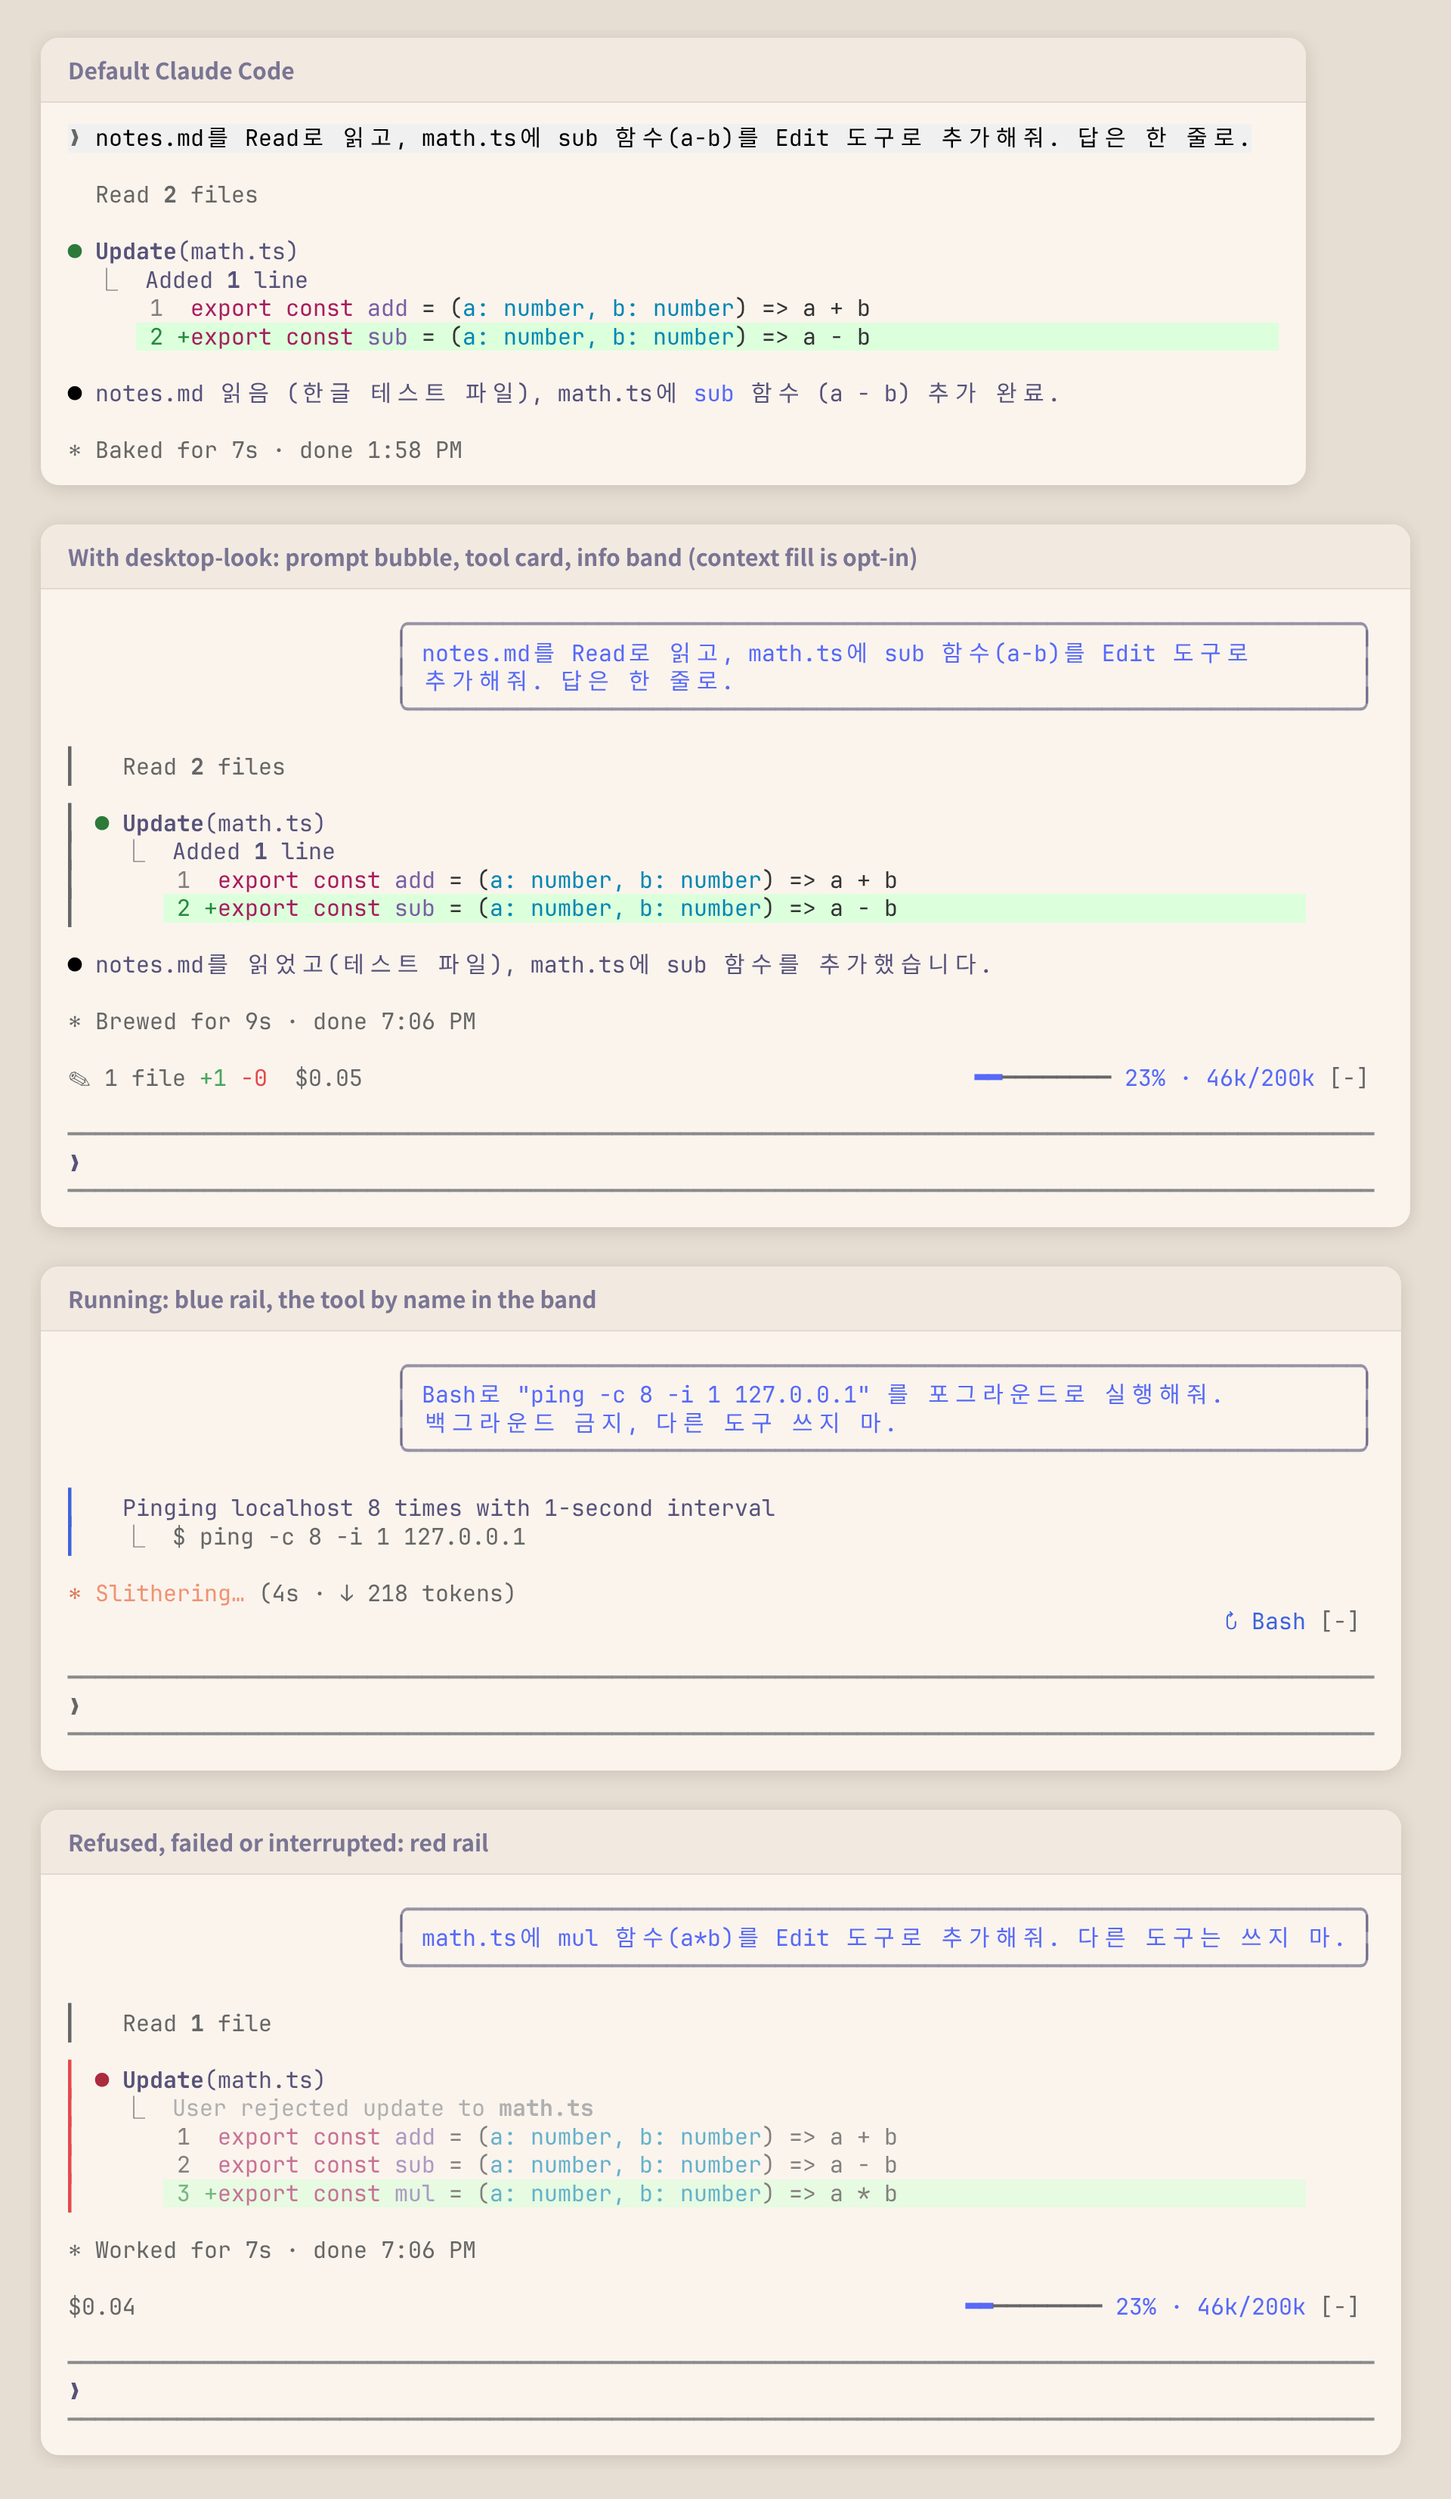
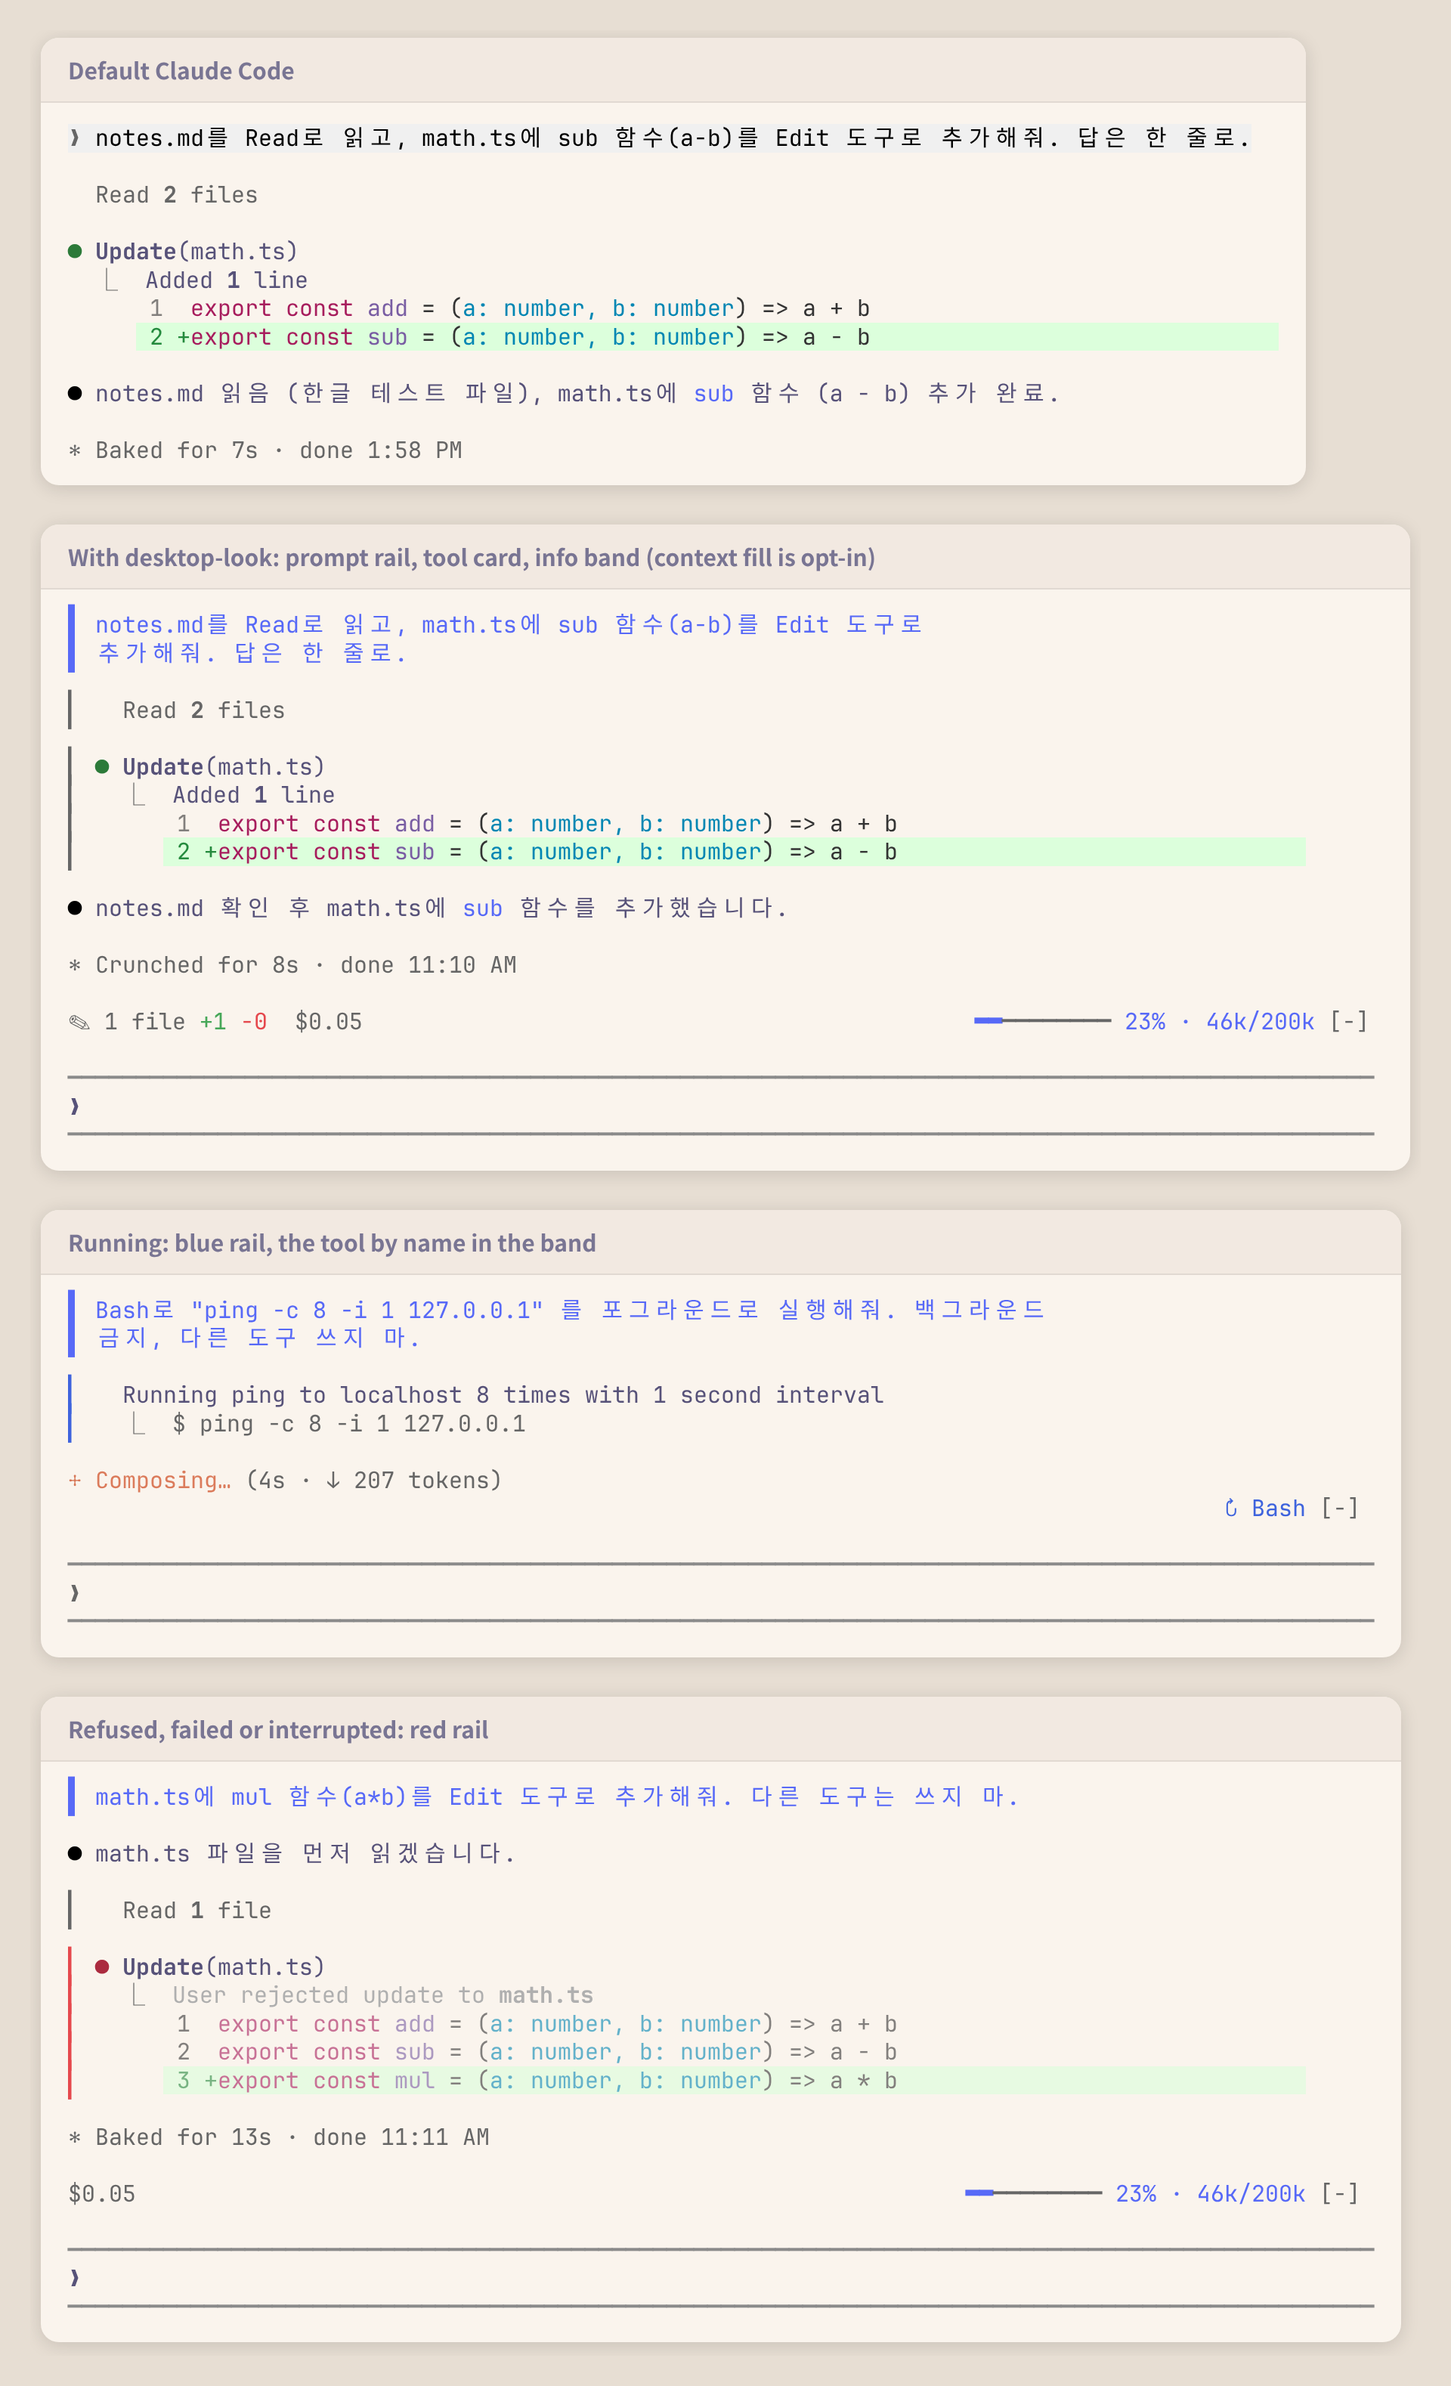
desktop-look 0.5.0: prompt rail on the left edge in place of the bubble

diff --git a/desktop-look/hooks/register.tsx b/desktop-look/hooks/register.tsx
@@ -16,6 +16,9 @@ const WIDTHS = ['60%', '75%', '90%'] as const
 // light, rgb(177,185,249) in dark.
 const PROMPT_COLOR = 'suggestion'
 
+// Half a cell wide, a step bolder than a tool card's rail.
+const PROMPT_RAIL = Array.from({ length: 400 }, () => '▌').join('\n')
+
 type Tone = 'done' | 'running' | 'failed'
 
 const MODEL = atom({ plugin: 'desktop-look', key: 'model' } as const, null)
@@ -255,18 +258,23 @@ export const register: Register = (on, options) => {
     )
   })
 
-  // The person's prompt as a right-aligned bubble, at most `width` wide.
+  // The person's prompt on the reply's own left edge, so a wide screen does
+  // not carry it out of sight: a blue rail, as a tool card has, one row per
+  // row of text; at most `width` wide.
   on('ui.render', { component: 'UserMessage' }, ($, e, next) => {
     if (e.surface !== 'terminal' || !OWN.has(e.props.origin.kind) || e.props.from || e.props.task) return next(e)
     const { Box, Text } = $.ui.resolve(e)
     return (
-      <Box flexDirection="row" justifyContent="flex-end" marginTop={1}>
-        <Box width={spacer} flexShrink={0} />
-        <Box flexShrink={1} borderStyle="round" borderDimColor paddingX={1}>
+      <Box flexDirection="row" marginTop={1}>
+        <Box flexShrink={1} paddingLeft={2}>
+          <Box position="absolute" left={0} top={0} bottom={0} width={1} overflow="hidden">
+            <Text color={PROMPT_COLOR}>{PROMPT_RAIL}</Text>
+          </Box>
           <Text color={PROMPT_COLOR} wrap="wrap">
             {e.props.text}
           </Text>
         </Box>
+        <Box width={spacer} flexShrink={0} />
       </Box>
     )
   })

diff --git a/desktop-look/hooks/look.test.tsx b/desktop-look/hooks/look.test.tsx
@@ -35,11 +35,12 @@ for (const surface of ['terminal', 'desktop'] as const) {
     const ui = await $.ui.mount({ plugin: 'desktop-look', surface, component: 'UserMessage', props: PROMPT })
     const tree = await ui.drawn()
     if (surface === 'terminal') {
-      expect(boxes(tree).some(b => b.props?.borderStyle === 'round')).toBe(true)
-      expect(boxes(tree)[0]?.props?.justifyContent).toBe('flex-end')
-      expect(texts(tree)).toEqual([PROMPT.text])
-      const shown = walk(tree).find(n => n.type === 'Text')
-      expect(shown?.type === 'Text' ? shown.props?.color : undefined).toBe('suggestion')
+      expect(boxes(tree).some(b => b.props?.borderStyle !== undefined)).toBe(false)
+      expect(texts(tree)).toContain(PROMPT.text)
+      const rail = boxes(tree).find(b => b.props?.position === 'absolute')
+      expect(rail?.props).toMatchObject({ left: 0, top: 0, bottom: 0, width: 1 })
+      const colours = walk(tree).flatMap(n => (n.type === 'Text' ? [n.props?.color] : []))
+      expect(colours).toEqual(['suggestion', 'suggestion'])
     } else {
       expect(texts(tree)).toEqual(['ENGINE'])
     }
@@ -105,7 +106,7 @@ for (const [bubbleWidth, spacer] of [['60%', '40%'], ['90%', '10%'], [undefined,
       return <Text>ENGINE</Text>
     })
     const ui = await $.ui.mount({ plugin: 'desktop-look', surface: 'terminal', component: 'UserMessage', props: PROMPT })
-    expect(boxes(await ui.drawn())[1]?.props?.width).toBe(spacer)
+    expect(boxes(await ui.drawn()).at(-1)?.props?.width).toBe(spacer)
   })
 }
 

diff --git a/desktop-look/README.md b/desktop-look/README.md
@@ -2,9 +2,9 @@
 
 A Claude Code mod that makes the terminal transcript look more like the desktop app.
 
-![Before and after, the info band, running and failed states](../docs/desktop-look.png)
+![Before and after: the prompt rail, tool cards, the info band, running and failed states](../docs/desktop-look.png)
 
-- **Prompt bubbles**: your own messages sit on the right in a rounded bubble, their text in the theme's blue, wrapping at a share of the terminal width
+- **Prompt rail**: your own messages carry a blue rail down their left edge and blue text, on the reply's own left edge so a wide screen never carries them out of sight; one row tall for a one-line prompt, wrapping at a share of the terminal width
 - **Tool cards**: a tool call, its live progress and its result share one rail down the left edge, so they read as one card
 - **State at a glance**: the rail is blue while a call runs, red when it errored, was refused at the dialog or was interrupted, and dim once done
 - The engine still draws everything inside a card, so each tool's own summary and diff are unchanged
@@ -27,7 +27,7 @@ No setup needed. To change one, run `/plugin configure desktop-look@kyongsik-mod
 
 | Option | Default | |
 | --- | --- | --- |
-| Bubble width | `75%` | `60%`, `75%` or `90%` of the terminal |
+| Bubble width | `75%` | How wide your own messages may grow: `60%`, `75%` or `90%` of the terminal |
 | Info band | on | The band above the prompt |
 | Band: model | off | Model and effort, for a status line that does not show them |
 | Band: context | off | Context fill, for a status line that does not show it: blue while calm, yellow from 300k tokens or 70%, red from 500k tokens or 90%, whichever comes first |
@@ -36,7 +36,7 @@ The cost is what Claude Code computes at API prices; on a subscription it is not
 
 ## How it works
 
-- `UserMessage` (your own prompts only, not task notifications or other sessions' messages) is drawn as a right-aligned `Box` with a round border.
+- `UserMessage` (your own prompts only, not task notifications or other sessions' messages) is drawn as its text in the theme's `suggestion` blue beside an absolutely positioned one-column rail that stretches to the text's height.
 - `ToolUse`, `ToolGroup`, `ToolProgress` and `ToolResult` are separate render sites, so one border cannot span them. Each wraps the engine's own row (`await next(e)`) and adds an absolutely positioned one-column rail that stretches to the row's height, skipping the blank line the engine opens a tool row with.
 - The rail colour comes from the row's props: `isRunning`, `isErrored`, `isInterrupted`, and the calls of a group.
 - The band is an `AbovePrompt` hook reading values in `$.state`, written by `tool.call` (tools running, and the `+`/`-` lines of each Edit and Write result's patch), `session.measure` (cost, context) and `turn.step` (model). A new session (`/clear`) starts the tally over; a reload keeps it.

diff --git a/README.md b/README.md
@@ -17,7 +17,7 @@ Then run `/reload-plugins` in a running session, or start a new one. Requires a 
 | Mod | Description |
 | --- | --- |
 | [smooth-stream](./smooth-stream) | Reveal streaming assistant replies with a smooth typewriter effect (~30 fps, catches up on large bursts, speed configurable). |
-| [desktop-look](./desktop-look) | Make the terminal transcript look like the desktop app: prompt bubbles on the right, tool calls and results as one card with a state-coloured rail, and an info band with this session's edits, cost and running tools. |
+| [desktop-look](./desktop-look) | Make the terminal transcript look like the desktop app: a blue rail on your own prompts, tool calls and results as one card with a state-coloured rail, and an info band with this session's edits, cost and running tools. |
 
 ## Update
 
